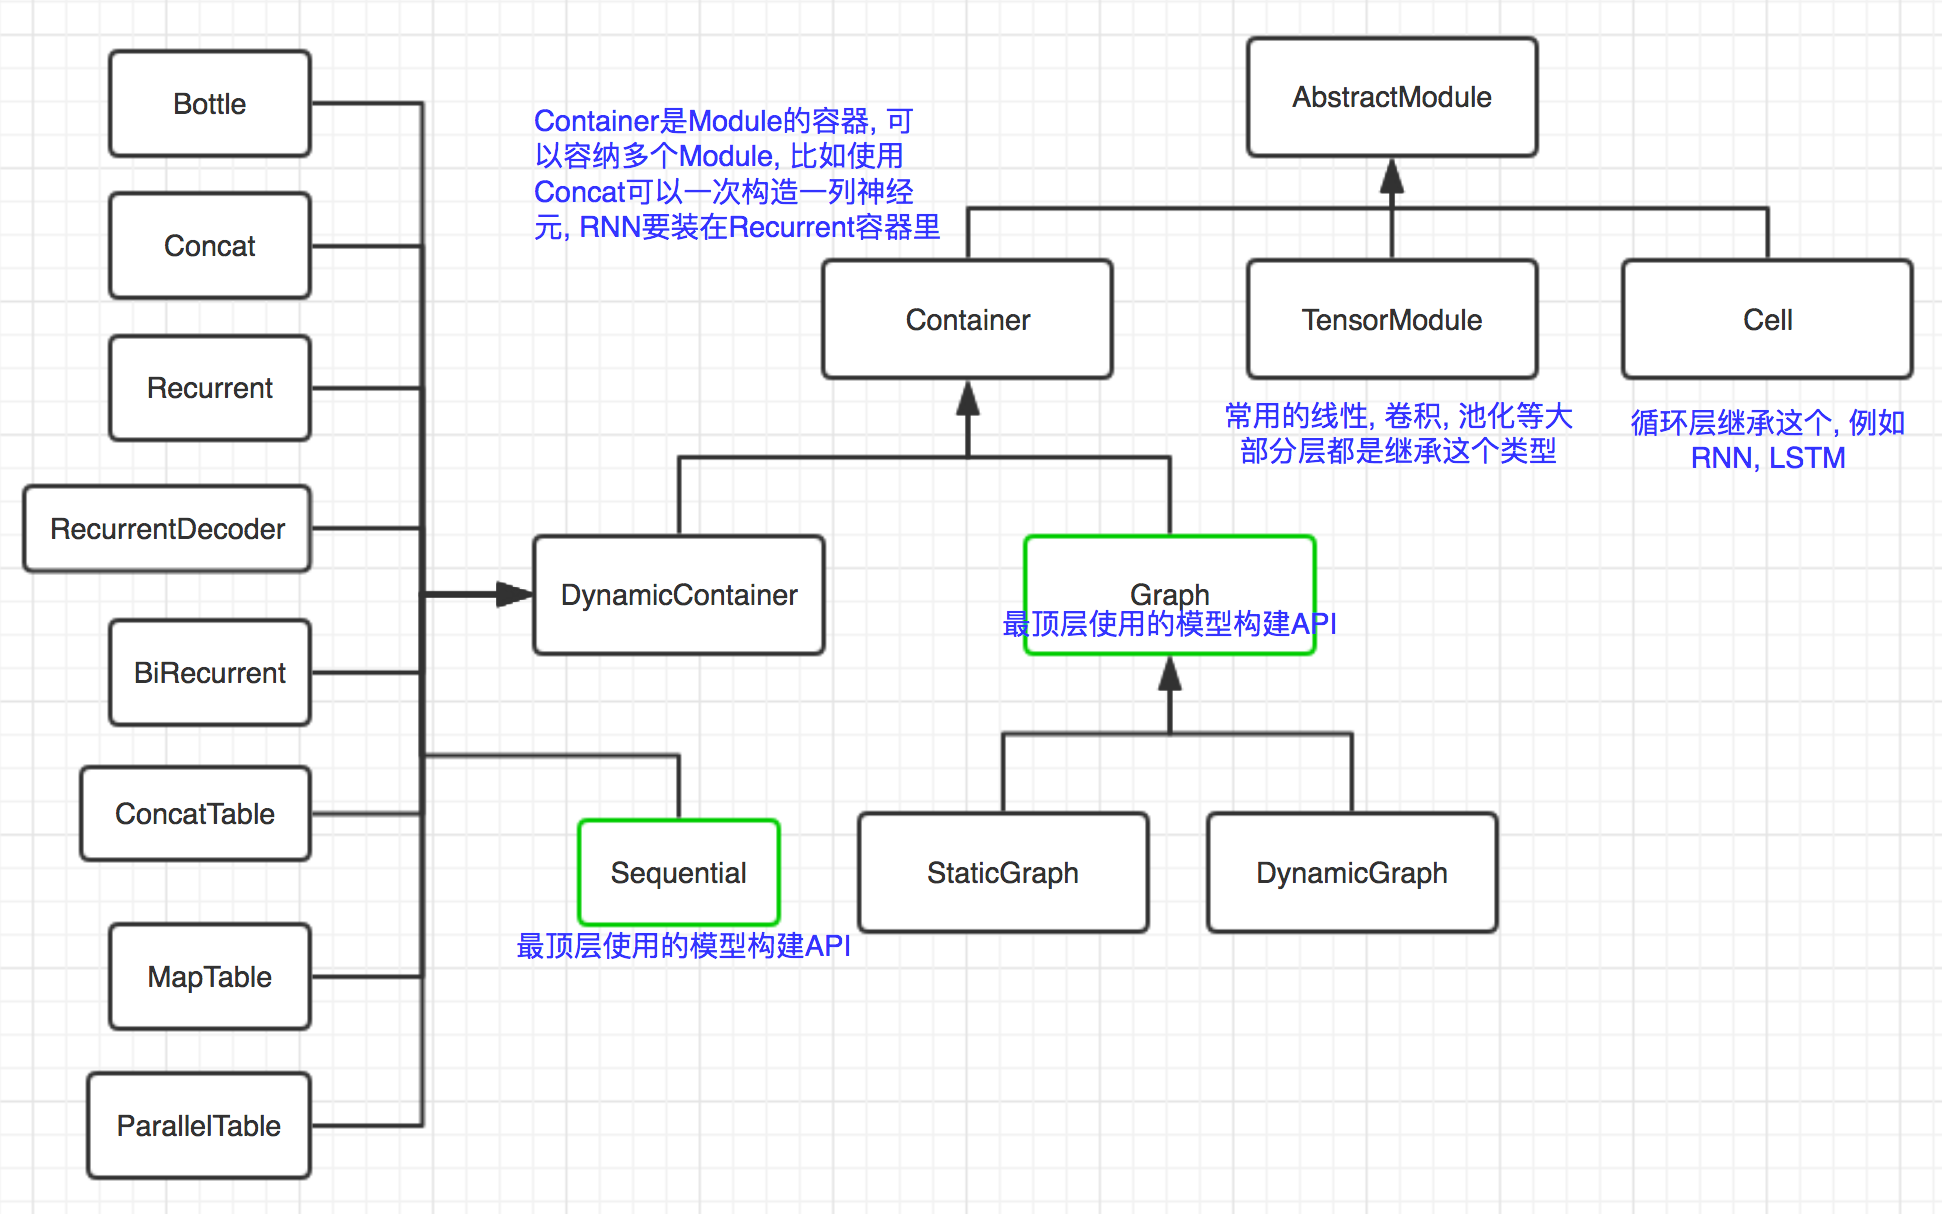
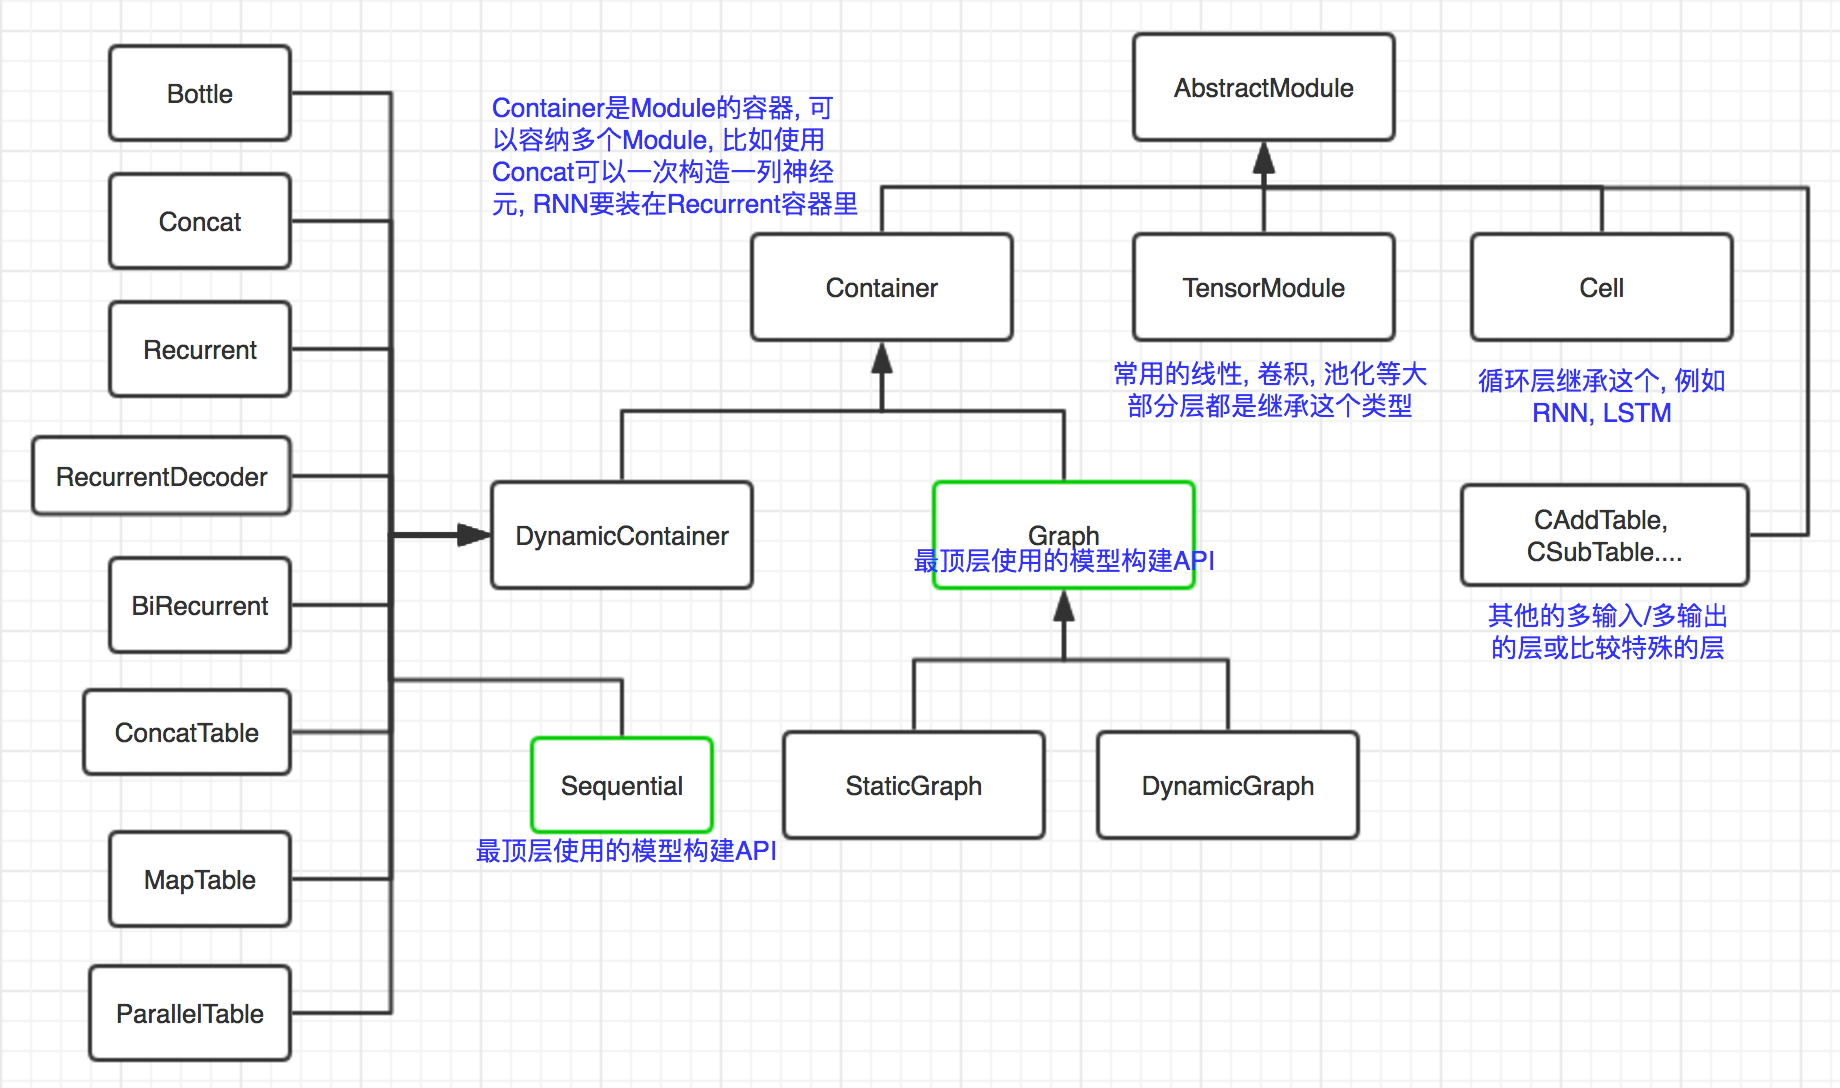
modified:   docs/BigDL/Module.md 	modified:   "docs/BigDL/\346\250\241\345\236\213\345\256\232\344\271\211.md" 	modified:   docs/images/class-structure.png 	modified:   mkdocs.yml

Changed region(s): [[0.0, 0.0312, 0.9913, 1.0], [0.031, 0.0312, 0.062, 0.125], [0.0929, 0.0625, 0.1239, 0.0938]]

diff --git a/docs/BigDL/Module.md b/docs/BigDL/Module.md
@@ -1,7 +1,15 @@
 # Module
-`Module`是BigDL中网络构建的基本单位，网络的每一种层都实现为一个`Module`。
+`Module`是BigDL中网络构建的基本单位，网络的每一种层都实现为一个`Module`.
 
-![class-structure](images/class-structure.png)
+首先来看一下Module的继承体系.
+
+![class-structure](/images/class-structure.png)
+
+说明一下, 最底层的是`AbstractModule`抽象类, 这是所有`Module`的基类.
+
+然后是它的一个子类`TensorModule`, 这也是一个抽象类, 大部分层都是继承这个类, 比如全连接, 卷积等.
+
+
 
 ## AbstractModule
 `com.intel.analytics.bigdl.nn.abstractnn`包内定义了`AbstractModule`，它是所有`Module`的原始基类：

diff --git a/docs/BigDL/模型定义.md b/docs/BigDL/模型定义.md
@@ -29,3 +29,7 @@ val model = Graph(Seq[linear], Seq[softmax])
 
 后者的形式比较直观。
 
+关于模型定义的更多细节请参考BigDL的文档(需要认真看完):
+
+- [Sequential API](https://bigdl-project.github.io/master/#ProgrammingGuide/Model/Sequential/)
+- [Functional API](https://bigdl-project.github.io/master/#ProgrammingGuide/Model/Functional/)
